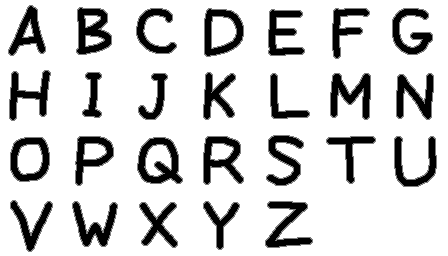
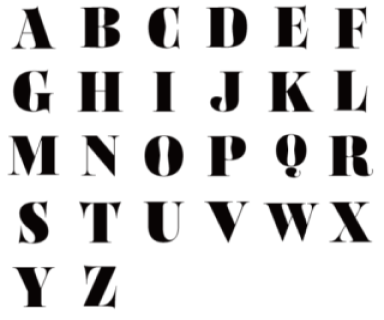
タイトルで使用しているロゴとフォントの変更

diff --git a/LanturnGame/Scene/Title.h b/LanturnGame/Scene/Title.h
@@ -11,6 +11,8 @@ private:
 	int titleimage;
 	int titlebombimage;
 	int titlenameimage[2];
+	int titlenameimag;
+
 	int menuimage[4];
 	int cursorimage;
 	int alphabetimage[26];
